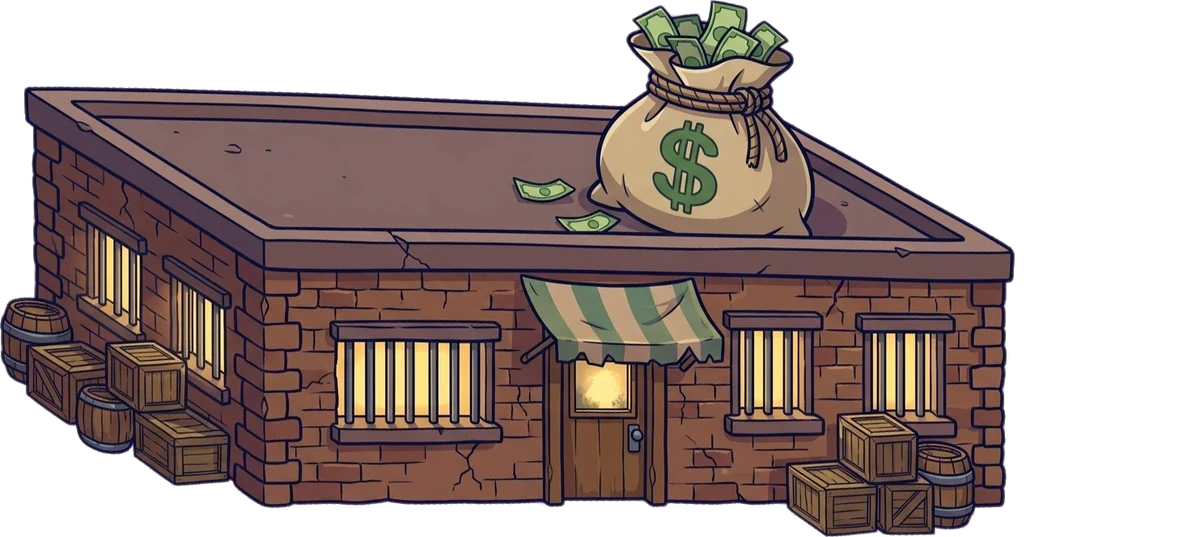
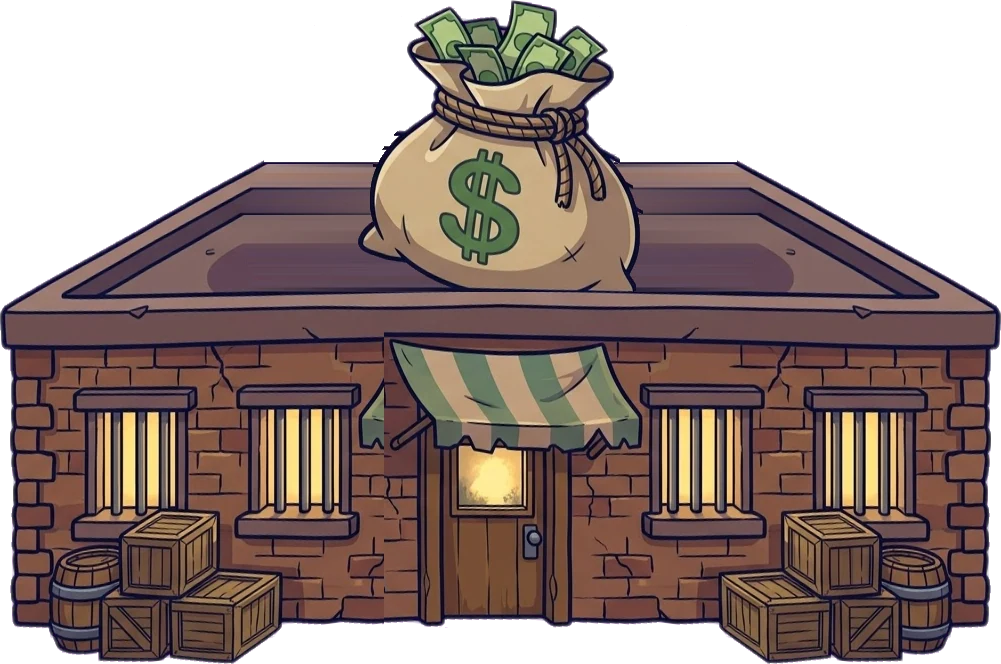
City art: show the 11 corner-view buildings dead-on
Levelling the front wall still left a side wall and a slanted roof, which reads as tilted. Each one
now keeps the half of its front with no side wall showing and mirrors it about the door, like the
straight-on pictures. The rooftop landmark is lifted out along its outline (thin roof lines dropped),
the roof is painted back under where it stood, and it's laid back unmirrored over the door, so
letters and shapes stay right. Asymmetric doors are kept as drawn; MCGA's slanted carpet is cleared.

diff --git a/tools/images/straighten.ts b/tools/images/straighten.ts
@@ -2,14 +2,14 @@
 // straight street grid: it finds the front wall's bottom edge, shears the picture so that edge is level
 // (upright lines stay upright), and moves the door to the middle. Writes a see-through PNG into art-in/,
 // ready for tools/images/art.ts.
-//   node tools/images/straighten.ts <picture> <name> [doorX 0..1 in the original] [slope]
+//   node tools/images/straighten.ts <picture> <name> [doorX 0..1 in the original] [slope] [left|right] ["L:x0-x1:y0-y1;B:..."]
 // Without a slope it measures one, and prints what it found so it can be checked or given by hand.
 import { join } from 'node:path';
 import sharp from 'sharp';
 import { keyMagenta } from './key.ts';
 
 const ROOT = new URL('../../', import.meta.url).pathname;
-const [file, name, doorArg, slopeArg] = process.argv.slice(2);
+const [file, name, doorArg, slopeArg, keepArg, markArg] = process.argv.slice(2);
 if (!file || !name) throw new Error('usage: straighten.ts <picture> <name> [doorX] [slope]');
 
 const { data, info } = await sharp(file).ensureAlpha().raw().toBuffer({ resolveWithObject: true });
@@ -97,12 +97,205 @@ for (let x = 0; x < w; x++) {
   }
 }
 
+// Saved for measuring the next step: the sheared picture at full size.
+await sharp(out, { raw: { width: w, height: H, channels: 4 } })
+  .png()
+  .toFile(join(ROOT, 'art-redo', `sheared-${name}.png`));
+
+// Seen dead-on: keep the half of the front that has no side wall showing and mirror it about the door,
+// then lay the rooftop landmark back over it unmirrored, so its letters and shape stay right.
+let W2 = w;
+let face = out;
+if (keepArg === 'left' || keepArg === 'right') {
+  const axis = Math.round(Number(doorArg) * w);
+  const half = keepArg === 'right' ? w - axis : axis;
+  W2 = half * 2;
+  face = Buffer.alloc(W2 * H * 4);
+  // Parts kept as drawn (not mirrored): "L:x0-x1:y0-y1" is a landmark, lifted out along its outline so
+  // the roof around it stays mirrored; "B:x0-x1:y0-y1" is a plain box, for a door that isn't symmetric.
+  // For each spot, which column of the sheared picture it's taken from as drawn (-1: mirror it).
+  const own = new Int32Array(w * H).fill(-1);
+  // Where a landmark stood: painted over with roof before mirroring, so it never shows twice.
+  const gone = new Uint8Array(w * H);
+  for (const part of (markArg ?? '').split(';').filter(Boolean)) {
+    const [kind, xs, ys] = part.split(':');
+    const [x0, x1] = xs!.split('-').map(Number) as [number, number];
+    const [y0, y1] = ys!.split('-').map(Number) as [number, number];
+    if (kind === 'BC') {
+      // A box standing clear of the roof (a tower against the sky), moved whole to sit over the door.
+      const shift = Math.round(axis - (x0 + x1) / 2);
+      for (let y = y0; y <= Math.min(y1, H - 1); y++)
+        for (let x = x0; x <= x1; x++) {
+          if (!out[(y * w + x) * 4 + 3]) continue;
+          gone[y * w + x] = 1;
+          if (x + shift >= 0 && x + shift < w) own[y * w + x + shift] = x;
+        }
+      continue;
+    }
+    if (kind === 'B' || kind === 'X') {
+      // "X" clears a box (a carpet that would come out in a V once mirrored).
+      for (let y = y0; y <= y1; y++) for (let x = x0; x <= x1; x++) own[y * w + x] = kind === 'B' ? x : -2;
+      continue;
+    }
+    // Grow the roof in from the box's edges, stopping at dark outlines; whatever it can't reach is the landmark.
+    const roof = new Uint8Array(w * H);
+    const px = (i: number) => [out[i * 4]!, out[i * 4 + 1]!, out[i * 4 + 2]!, out[i * 4 + 3]!] as const;
+    const dark = (i: number) => {
+      const [r, g, b, al] = px(i);
+      return al > 0 && r + g + b < 200;
+    };
+    const stack: number[] = [];
+    const seed = (i: number) => {
+      if (!roof[i] && !dark(i)) {
+        roof[i] = 1;
+        stack.push(i);
+      }
+    };
+    for (let x = x0; x <= x1; x++) {
+      seed(y0 * w + x);
+      seed(y1 * w + x);
+    }
+    for (let y = y0; y <= y1; y++) {
+      seed(y * w + x0);
+      seed(y * w + x1);
+    }
+    while (stack.length) {
+      const i = stack.pop()!;
+      const x = i % w;
+      const y = Math.floor(i / w);
+      const here = px(i);
+      for (const [nx, ny] of [
+        [x - 1, y],
+        [x + 1, y],
+        [x, y - 1],
+        [x, y + 1],
+      ] as const) {
+        if (nx < x0 || nx > x1 || ny < y0 || ny > y1) continue;
+        const j = ny * w + nx;
+        if (roof[j] || dark(j)) continue;
+        const c = px(j);
+        if (Math.hypot(c[0] - here[0], c[1] - here[1], c[2] - here[2]) + Math.abs(c[3] - here[3]) < 40) {
+          roof[j] = 1;
+          stack.push(j);
+        }
+      }
+    }
+    // The landmark is the biggest piece left; stray bits of outline at the box's edge are roof.
+    const piece = new Int32Array(w * H).fill(-1);
+    let best = -1;
+    let bestSize = 0;
+    const sizes: number[] = [];
+    for (let y = y0; y <= y1; y++)
+      for (let x = x0; x <= x1; x++) {
+        const i = y * w + x;
+        if (roof[i] || piece[i] >= 0 || !out[i * 4 + 3]) continue;
+        const id = sizes.length;
+        const todo = [i];
+        piece[i] = id;
+        for (let k = 0; k < todo.length; k++) {
+          const p = todo[k]!;
+          const px0 = p % w;
+          const py0 = Math.floor(p / w);
+          for (let dy = -1; dy <= 1; dy++)
+            for (let dx = -1; dx <= 1; dx++) {
+              const nx = px0 + dx;
+              const ny = py0 + dy;
+              if (nx < x0 || nx > x1 || ny < y0 || ny > y1) continue;
+              const j = ny * w + nx;
+              if (roof[j] || piece[j] >= 0 || !out[j * 4 + 3]) continue;
+              piece[j] = id;
+              todo.push(j);
+            }
+        }
+        sizes.push(todo.length);
+        if (todo.length > bestSize) {
+          bestSize = todo.length;
+          best = id;
+        }
+      }
+    // Thin lines touching it (bits of the roof's outline) aren't the landmark: open the mask (shrink, then
+    // grow back) so only solid parts survive.
+    const R = 6;
+    const inBox = (x: number, y: number) => x >= x0 && x <= x1 && y >= y0 && y <= y1;
+    const isP = (x: number, y: number) => inBox(x, y) && piece[y * w + x] === best;
+    const core = new Uint8Array(w * H);
+    for (let y = y0; y <= y1; y++)
+      for (let x = x0; x <= x1; x++) {
+        let all = isP(x, y);
+        for (let d = 1; all && d <= R; d++)
+          all = isP(x - d, y) && isP(x + d, y) && isP(x, y - d) && isP(x, y + d);
+        if (all) core[y * w + x] = 1;
+      }
+    for (let y = y0; y <= y1; y++)
+      for (let x = x0; x <= x1; x++) {
+        if (!isP(x, y)) continue;
+        let near = false;
+        for (let dy = -R; !near && dy <= R; dy++)
+          for (let dx = -R; !near && dx <= R; dx++) {
+            const nx = x + dx;
+            const ny = y + dy;
+            if (inBox(nx, ny) && core[ny * w + nx]) near = true;
+          }
+        if (!near) piece[y * w + x] = -1;
+      }
+    // "LC" moves the landmark to sit over the door.
+    let lo = w;
+    let hi = 0;
+    for (let y = y0; y <= y1; y++)
+      for (let x = x0; x <= x1; x++)
+        if (piece[y * w + x] === best) {
+          lo = Math.min(lo, x);
+          hi = Math.max(hi, x);
+        }
+    const shift = kind === 'LC' ? Math.round(axis - (lo + hi) / 2) : 0;
+    for (let y = y0; y <= y1; y++)
+      for (let x = x0; x <= x1; x++)
+        if (piece[y * w + x] === best) {
+          for (let d = -3; d <= 3; d++) if (x + d >= 0 && x + d < w) gone[y * w + x + d] = 1;
+          if (x + shift >= 0 && x + shift < w) own[y * w + x + shift] = x;
+        }
+  }
+  // Paint the roof back under each landmark, row by row, blending what's either side of it.
+  const clean = Buffer.from(out);
+  for (let y = 0; y < H; y++)
+    for (let x = 0; x < w; x++) {
+      if (!gone[y * w + x]) continue;
+      let e = x;
+      while (e < w && gone[y * w + e]) e++;
+      const l = x - 1;
+      const r = e;
+      for (let k = x; k < e; k++) {
+        const t = (k - l) / (r - l);
+        // Blend only between two solid sides; a row that runs out into the sky is left clear (no smeared lines).
+        const li = l >= 0 ? l : r;
+        const ri = r < w ? r : li;
+        const solid = out[(y * w + li) * 4 + 3]! > 200 && out[(y * w + ri) * 4 + 3]! > 200;
+        for (let c = 0; c < 4; c++) {
+          const a = li >= 0 && li < w ? out[(y * w + li) * 4 + c]! : 0;
+          const b = ri >= 0 && ri < w ? out[(y * w + ri) * 4 + c]! : 0;
+          clean[(y * w + k) * 4 + c] = solid ? Math.round(a * (1 - t) + b * t) : 0;
+        }
+      }
+      x = e;
+    }
+  for (let x = 0; x < W2; x++) {
+    const at = axis - half + x;
+    const mirrored = keepArg === 'right' ? (at < axis ? 2 * axis - at : at) : at > axis ? 2 * axis - at : at;
+    for (let y = 0; y < H; y++) {
+      const mine = at >= 0 && at < w ? own[y * w + at]! : -1;
+      if (mine === -2) continue;
+      if (mine >= 0) out.copy(face, (y * W2 + x) * 4, (y * w + mine) * 4, (y * w + mine) * 4 + 4);
+      else clean.copy(face, (y * W2 + x) * 4, (y * w + mirrored) * 4, (y * w + mirrored) * 4 + 4);
+    }
+  }
+}
+
 // Door to the middle: pad the side that's short, so the picture's centre is the door.
-let img = sharp(out, { raw: { width: w, height: H, channels: 4 } }).png();
+let img = sharp(face, { raw: { width: W2, height: H, channels: 4 } }).png();
 let trimmed = await sharp(await img.toBuffer())
   .trim({ threshold: 1 })
   .toBuffer({ resolveWithObject: true });
-if (doorArg !== undefined) {
+if (doorArg !== undefined && W2 === w) {
   const door = Number(doorArg) * w + (trimmed.info.trimOffsetLeft ?? 0);
   const left = door;
   const right = trimmed.info.width - door;
